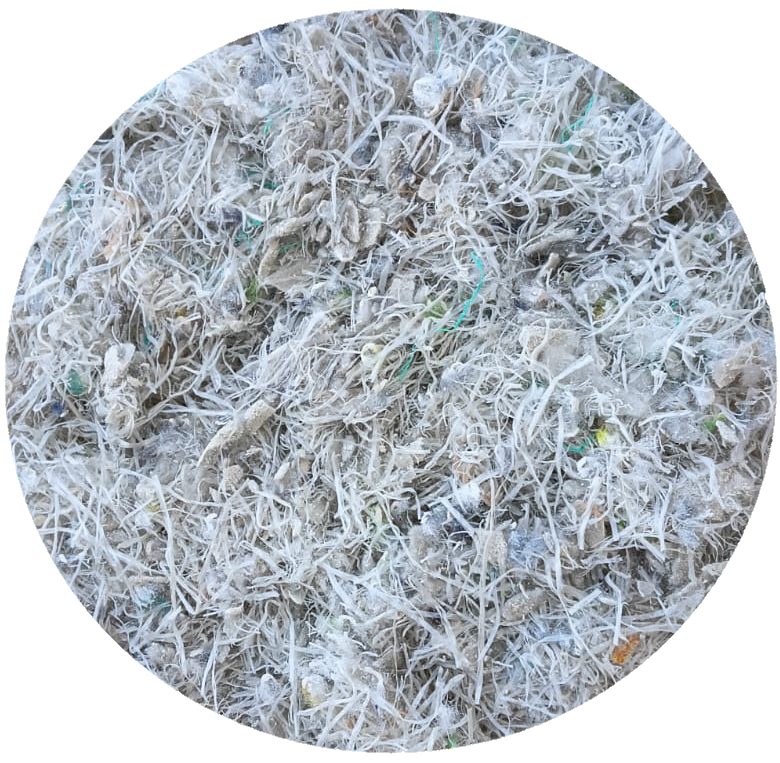
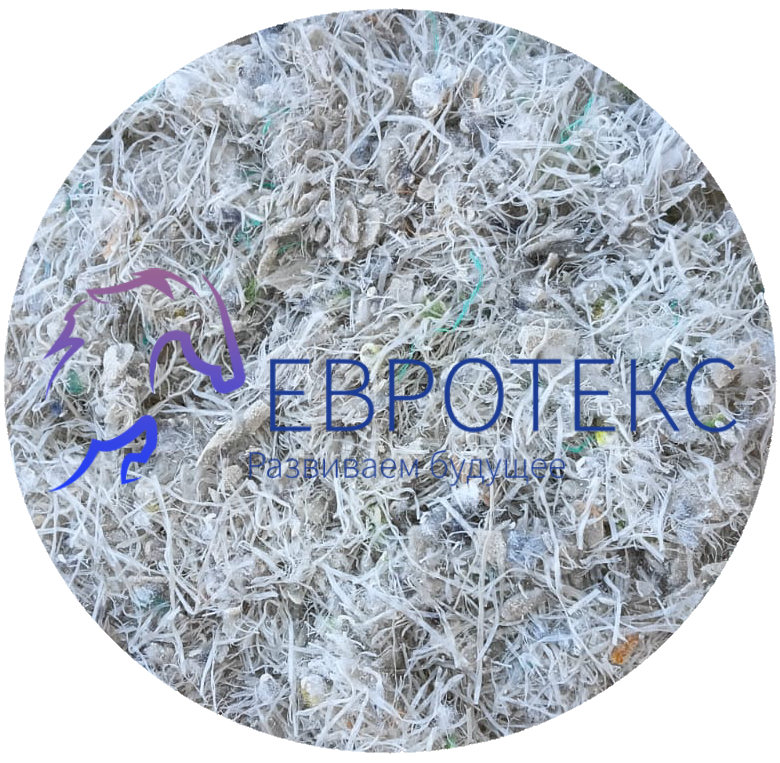
images with protection

Changed region(s): [[0.0, 0.0, 1.0, 0.9948]]

diff --git a/euroteks/templates/main_pages/ekviteks.html b/euroteks/templates/main_pages/ekviteks.html
@@ -17,7 +17,7 @@
               <li class="breadcrumb-item active" aria-current="page">Эквитекс</li>
             </ol>
           </nav>
-        <img src="{% static 'images/evrogrunt_evroteks_9.jpg' %}" class="img-fluid" alt="Еврогрунт для конного спорта">
+        <img src="{% static 'images/evrogrunt_evroteks_9.webp' %}" class="img-fluid" alt="Еврогрунт для конного спорта">
         <p class="text-left" data-aos-duration="600" data-aos="fade-down" data-aos-delay="900">«Эквитекс»  применяется для стабилизации песчаных покрытий конно-спортивных полей, в том числе плацов, манежей, скаковых дорожек.
             Рекомендуется как для закрытых, так и для открытых полей.
             <br>Исходя из многолетнего опыта по изготовлению ипподромных грунтов, в том числе всепогодных, с применением различных волокнистых наполнителей,
